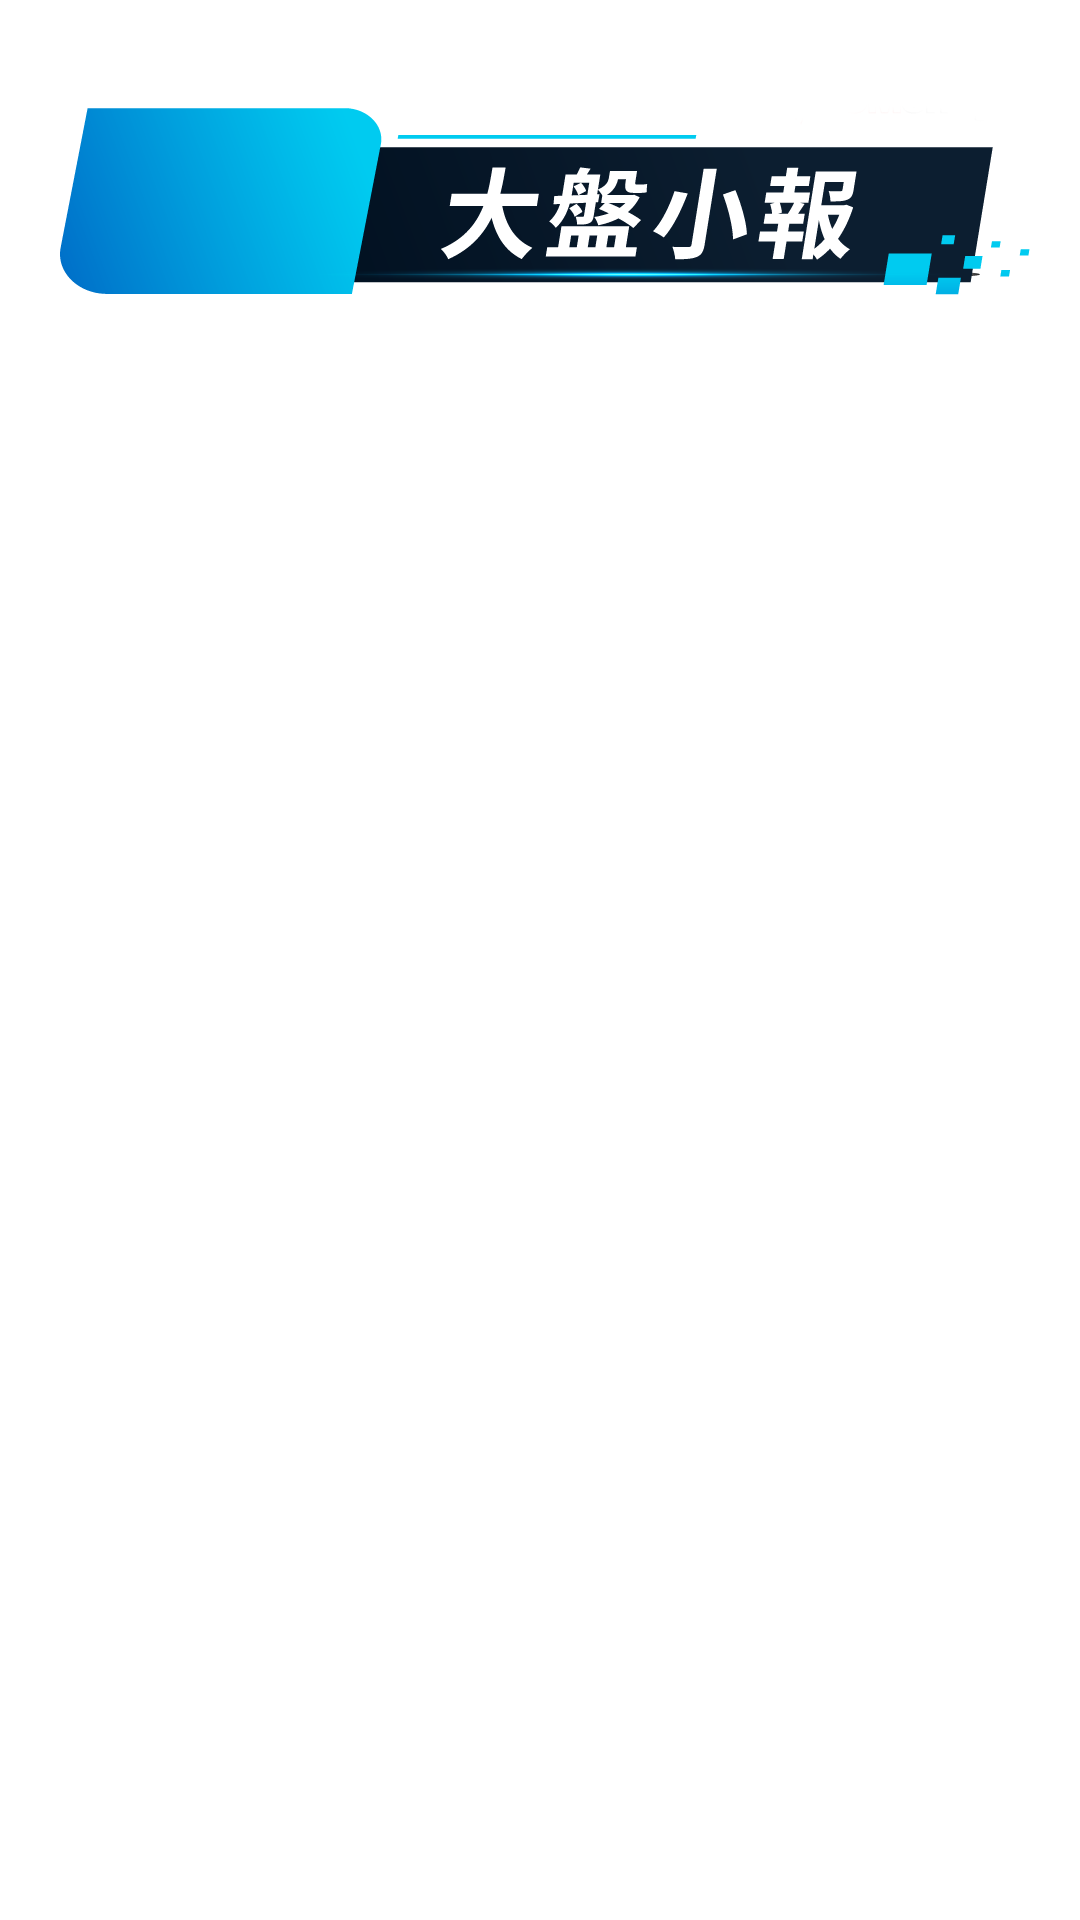
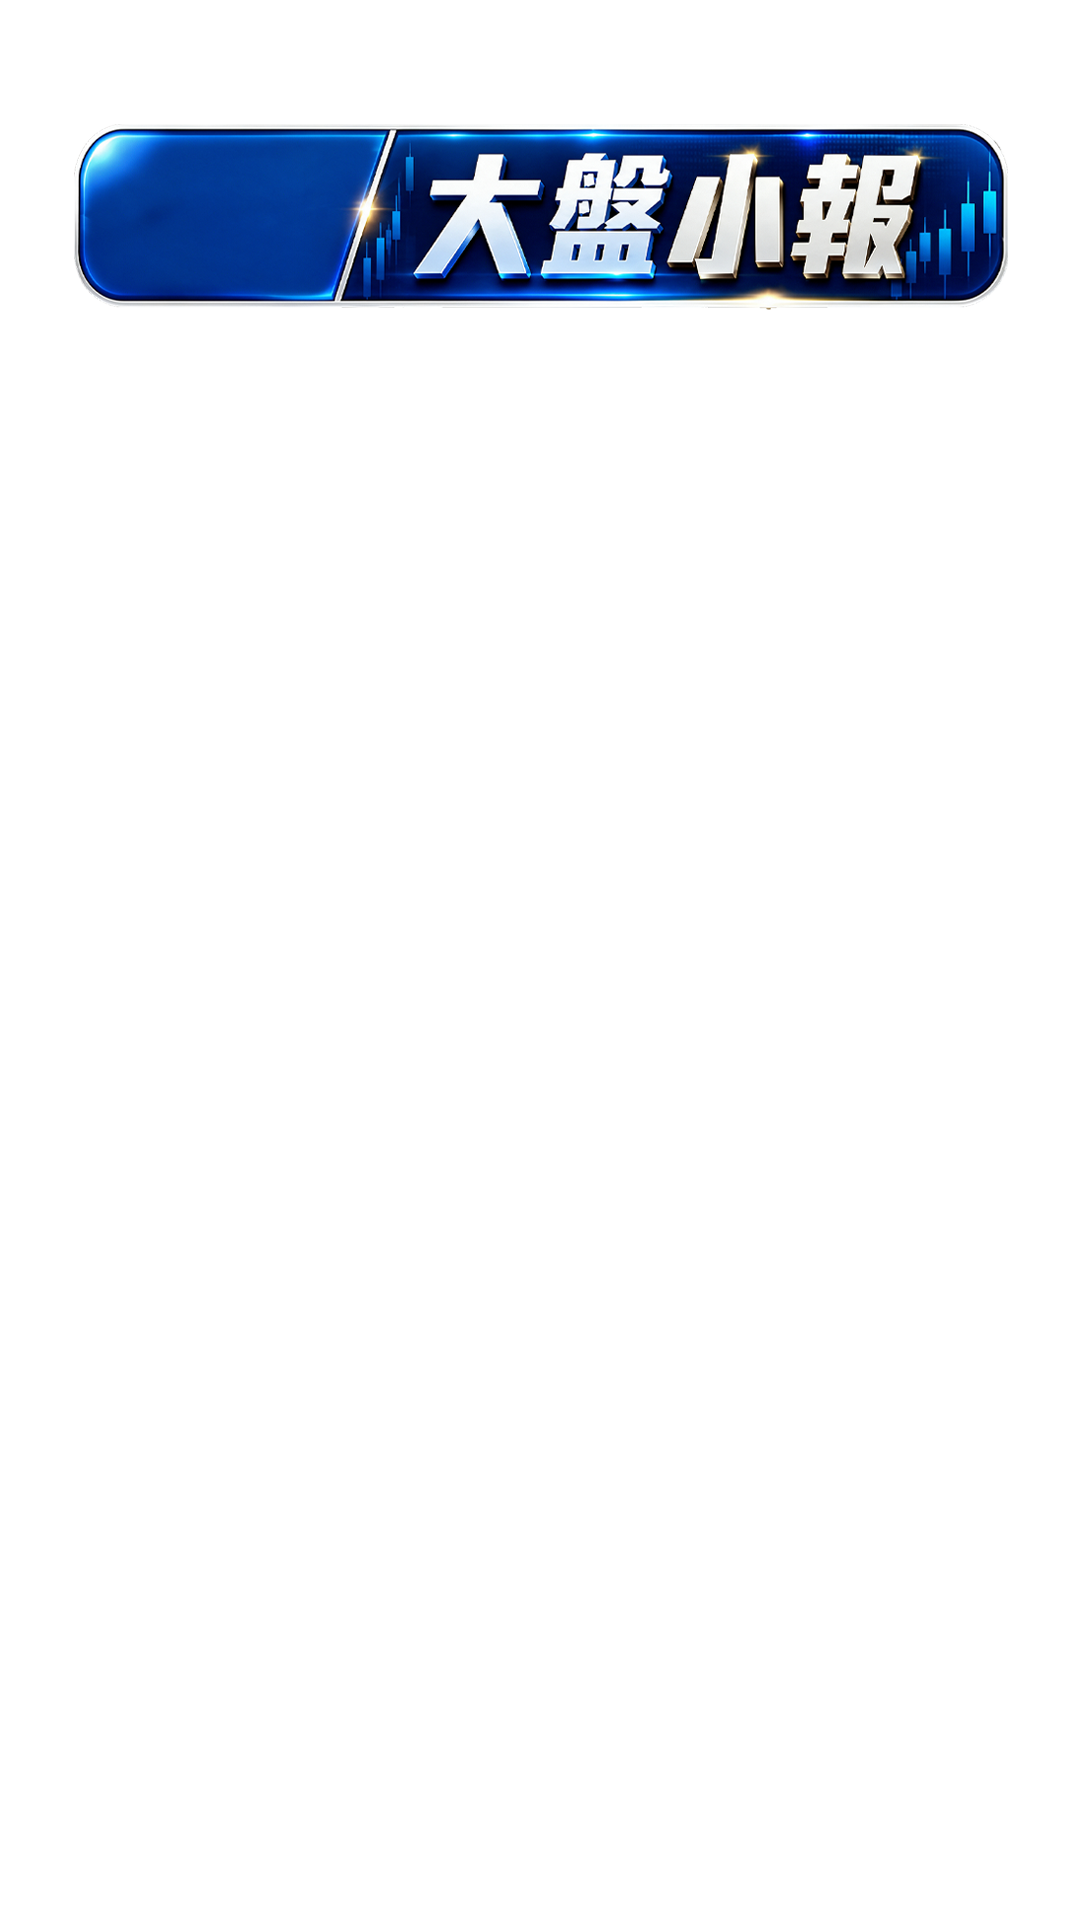
fix: 大盤小報換新招牌素材，日期牌座標重量並改成光學置中
新素材從「無外框青色平行四邊形」換成「銀框膠囊」，舊座標（x60–379 /
header y108–293 / intro y479–664）整組失效，三張圖都重量：

- header-overlay.png：槽 x79–357 / y129–300
- intro-frame.jpg：同一套美術整體低 360px → 槽 y489–660
- intro-frame_Horizontal.png：槽 x1228–1430 / y256–379

框改成等於槽本身，置中改靠 transform: translate(-0.113em, -0.066em)：
flex 對齊的是字的 em 框不是墨跡，斜體讓墨跡偏右、數字基線讓它偏下，
實測（fontSize 106）差 12px / 7px。用 em 寫才會跟著字級縮放。
改完實測墨跡中心 (218.5, 575.0) 與 (1329.0, 317.5)，對上槽中心。

字級維持 106（使用者看過 106/96 對照後定案）。量法與「換圖就要重量」
的警告寫進兩支 composition 的註解。

Changed region(s): [[0.0611, 0.0312, 0.9472, 0.1562]]

diff --git a/90_系統/應用程式/src/DapanXiaobao/DapanComposition.tsx b/90_系統/應用程式/src/DapanXiaobao/DapanComposition.tsx
@@ -75,10 +75,10 @@ export const DapanComposition: React.FC = () => {
             style={{ width: '100%', height: '100%', objectFit: 'cover' }}
           />
         </AbsoluteFill>
-        {/* 2026-08-07 修正：intro-frame.jpg 的日期牌梯形跟 header-overlay.png 不同 y 座標
-            （量到 top≈479，header-overlay.png 是 top≈108），之前誤用同一組座標疊在兩張圖上、
-            intro 那張因此歪掉。兩張圖分開傳 top 值 */}
-        <DateBadge top={479} />
+        {/* 2026-08-07 修正：intro-frame.jpg 的日期牌槽跟 header-overlay.png 不同 y 座標，
+            之前誤用同一組座標疊在兩張圖上、intro 那張因此歪掉。兩張圖分開傳 top 值。
+            2026-09-16 使用者換素材後重量：intro 的槽是 y489–660（舊素材是 y479–664）。 */}
+        <DateBadge top={489} />
         <TitleCard topOffset={70} />
       </Sequence>
 
@@ -152,7 +152,7 @@ export const DapanComposition: React.FC = () => {
             style={{ width: '100%', height: '100%', objectFit: 'cover' }}
           />
         </AbsoluteFill>
-        <DateBadge top={108} />
+        <DateBadge top={129} />
       </Sequence>
 
       {/* === BGM：跨整支影片墊底，頭尾淡入淡出 === */}
@@ -182,10 +182,19 @@ export const DapanComposition: React.FC = () => {
  */
 
 
-// 日期牌空白區座標（分別實測 intro-frame.jpg 與 header-overlay.png 兩張圖的實際像素，2026-08-07）：
-// 藍色梯形 x:60-379 兩張圖一致，但 y 不同——header-overlay.png 是 y:108-293，
-// intro-frame.jpg 是 y:479-664（低了 371px，兩張圖的版面設計不是同一個基準）。
+// 日期牌空白區座標（分別實測 intro-frame.jpg 與 header-overlay.png 兩張圖的實際像素）：
+// 兩張圖的招牌是同一套美術、只差 y（intro 整體比 header 低 360px），
 // 呼叫端要各自傳對的 top 值，不能共用一組座標（2026-08-06 版本的 bug 就是共用同一組）。
+//
+// 2026-09-16 使用者換掉素材後重量（舊素材是「無外框的青色平行四邊形 x60–379 /
+// header y108–293 / intro y479–664」，那組數字已失效）：
+//   新素材是「銀色外框膠囊」，量法＝掃銀白外框（R,G,B>160 且低彩度）取內緣：
+//   外框 header y124–306、intro y484–666（兩張都是 h183）→ 內緣藍色槽高 172
+//     header-overlay.png：y129–300     intro-frame.jpg：y489–660
+//   左緣：外框 x73–78 → 內緣 x79（兩張一致）
+//   右緣：是斜切分隔線、上寬下窄，y 每降 20px 約左移 7px；取槽垂直中央約 x357
+//   → 可用槽 x79–357（寬 279）、中心 x218.5
+// ⚠ 這兩張圖再換一次就要照上面的量法重量一遍，不能沿用。
 const DateBadge: React.FC<{ top: number }> = ({ top }) => {
   const headerDate = (videoMeta as any).headerDate ?? '';
   if (!headerDate) return null;
@@ -194,10 +203,12 @@ const DateBadge: React.FC<{ top: number }> = ({ top }) => {
       <div
         style={{
           position: 'absolute',
-          left: 55, // 2026-08-07 使用者要求再往左移 5px（原本 60）
+          // 這個框＝槽本身（left/width 是槽的左內緣與寬，top 由呼叫端傳、height 是槽高），
+          // 視覺置中靠下面那層的 transform 修，座標本身不再手動偏移
+          left: 79,
           top,
-          width: 319,
-          height: 185,
+          width: 279,
+          height: 172,
           display: 'flex',
           alignItems: 'center',
           justifyContent: 'center',
@@ -214,6 +225,10 @@ const DateBadge: React.FC<{ top: number }> = ({ top }) => {
             letterSpacing: -2,
             lineHeight: 1,
             textShadow: '3px 3px 6px rgba(0,0,0,0.45)', // 2026-08-10 使用者要求右下方向加一點陰影
+            // 光學置中修正：flex 置中對齊的是「字的前進寬度＋em 框」，不是實際墨跡。
+            // 斜體讓墨跡整體偏右、數字基線讓墨跡偏下，2026-09-16 實測（fontSize 106）
+            // 墨跡中心比框中心右 12px、下 7px → 用 em 表示才會跟著字級縮放。
+            transform: 'translate(-0.113em, -0.066em)',
           }}
         >
           {headerDate}

diff --git a/90_系統/應用程式/src/DapanXiaobao/DapanLandscapeComposition.tsx b/90_系統/應用程式/src/DapanXiaobao/DapanLandscapeComposition.tsx
@@ -189,8 +189,12 @@ export const DapanLandscapeComposition: React.FC = () => {
 /** 截圖段全螢幕圖片（橫式：擺在左側講者可見區、淡入淡出） */
 
 
-// 日期牌：讀 video-meta.json.headerDate（MMDD），擺在右側面板藍色梯形槽內。
-// 藍色梯形實測約 x1240–1425 / y255–390（量自 intro-frame_Horizontal.png）。第一版預設值。
+// 日期牌：讀 video-meta.json.headerDate（MMDD），擺在右側面板的藍色槽內。
+// 2026-09-16 使用者換素材後重量（量自 intro-frame_Horizontal.png，量法同直式：掃銀白外框取內緣）：
+//   外框 y253–383 → 內緣藍色槽 y256–379（高 124）、中心 y317.5
+//   左緣外框 x1225–1227 → 內緣 x1228；右緣是斜切分隔線、槽垂直中央約 x1430
+//   → 可用槽 x1228–1430（寬 202）、中心 x1329
+// ⚠ 這張圖再換一次就要重量一遍（舊素材量到的 x1240–1425 / y255–390 已失效）。
 const LandscapeDateBadge: React.FC = () => {
   const headerDate = (videoMeta as any).headerDate ?? '';
   if (!headerDate) return null;
@@ -199,10 +203,10 @@ const LandscapeDateBadge: React.FC = () => {
       <div
         style={{
           position: 'absolute',
-          left: 1244, // 2026-08-10 依實測校正置中（1240→1258 偏右、又偏低 → 回 1244）
-          top: 240, // 實測 0810 略偏低，往上挪 10px 對準梯形中心
-          width: 185,
-          height: 140,
+          left: 1228, // 槽左內緣（框＝槽本身，視覺置中靠下面那層的 transform 修）
+          top: 256, // 槽上內緣
+          width: 202,
+          height: 124,
           display: 'flex',
           alignItems: 'center',
           justifyContent: 'center',
@@ -219,6 +223,8 @@ const LandscapeDateBadge: React.FC = () => {
             letterSpacing: -2,
             lineHeight: 1,
             textShadow: '3px 3px 6px rgba(0,0,0,0.45)',
+            // 光學置中修正，跟直式同一組 em 值（見 DapanComposition.tsx 的說明）
+            transform: 'translate(-0.113em, -0.066em)',
           }}
         >
           {headerDate}
